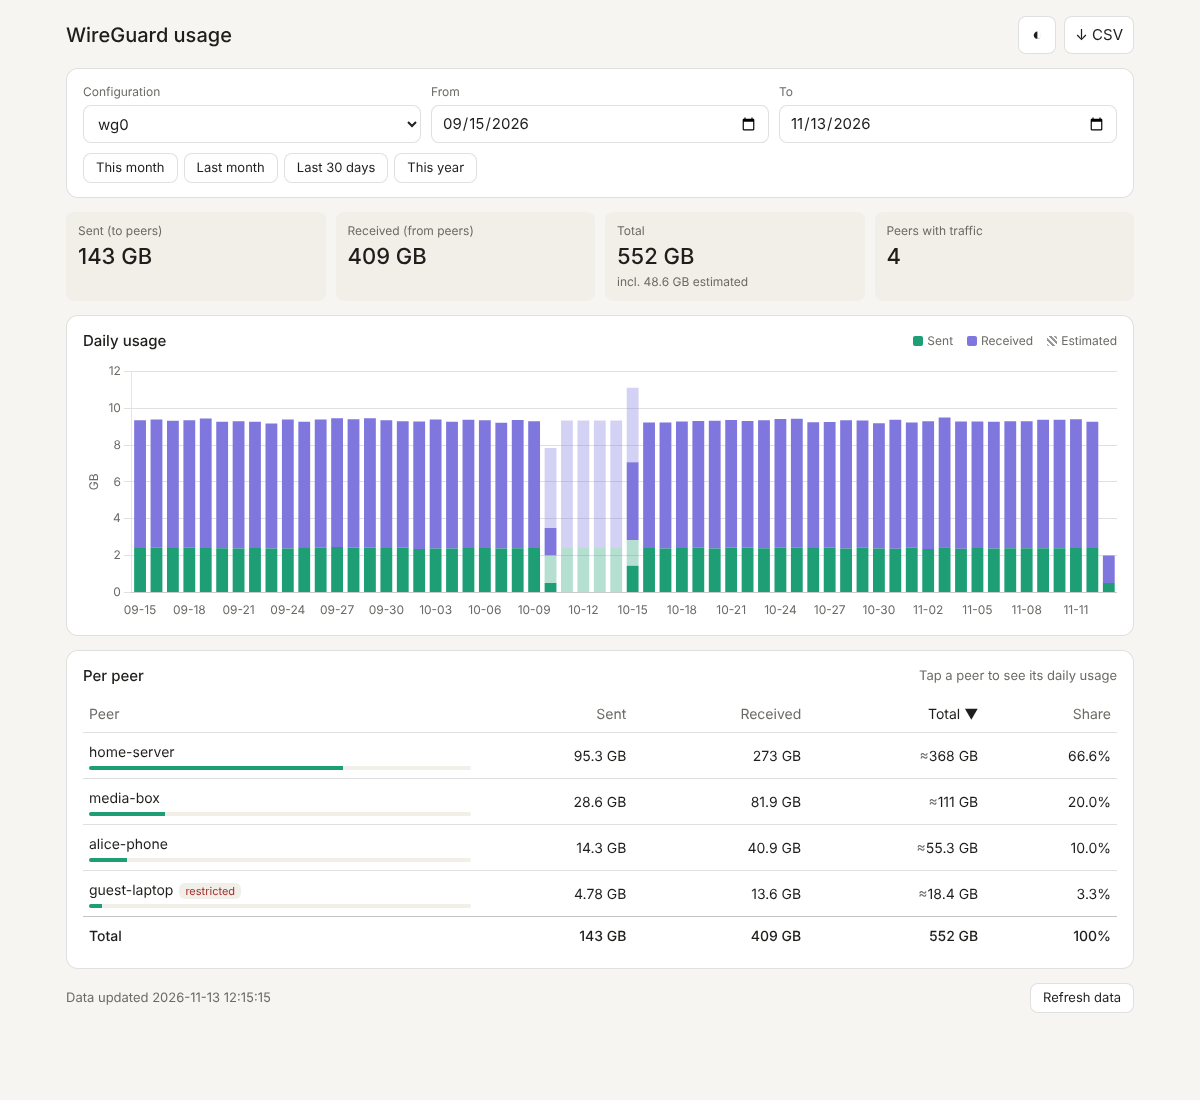
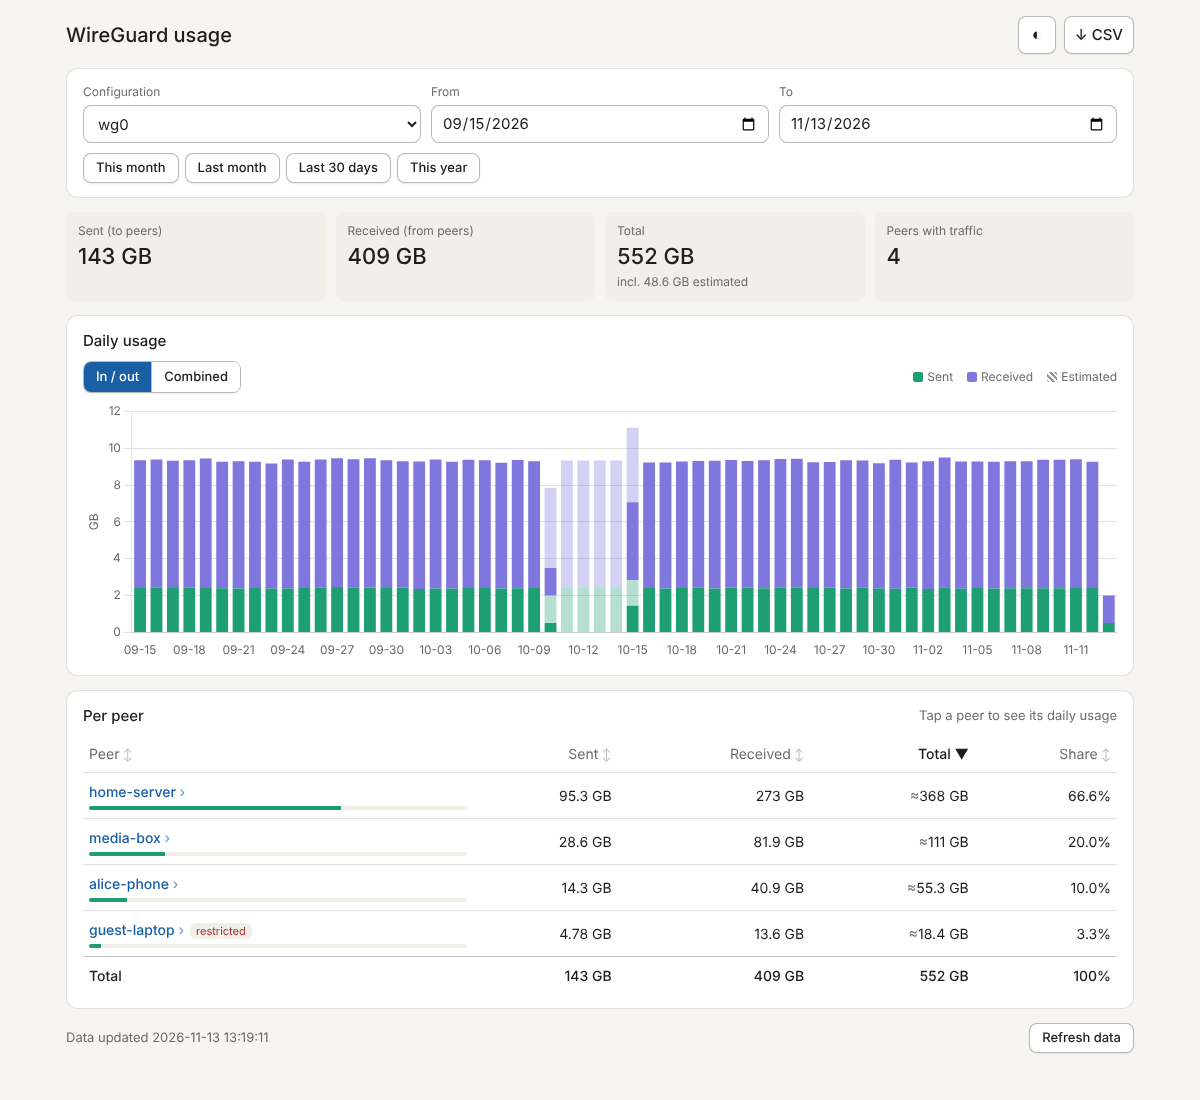
Make buttons, tabs and peer rows look clickable
Solid buttons with a visible border and press feedback, a filled active
tab in the In/out | Combined switch and the date presets, sort arrows on
table headers, and peer names styled as links with a chevron.

Claude-Session: https://claude.ai/code/session_01Jf7VQPKcCADD2hmauksGBQ

diff --git a/app/static/index.html b/app/static/index.html
@@ -9,15 +9,15 @@
 <style>
 :root {
   --bg: #f6f5f1; --card: #ffffff; --soft: #f1efe8; --text: #1f1e1c; --muted: #6b6a65;
-  --border: rgba(0,0,0,.12); --accent: #185FA5; --accent-bg: #E6F1FB; --rx: #7F77DD; --tx: #1D9E75; --all: #378ADD; --danger: #A32D2D;
+  --border: rgba(0,0,0,.12); --btn: #ffffff; --btn-border: rgba(0,0,0,.28); --btn-hover: #ebe9e2; --accent: #185FA5; --accent-bg: #E6F1FB; --rx: #7F77DD; --tx: #1D9E75; --all: #378ADD; --danger: #A32D2D;
   --radius: 8px;
 }
 @media (prefers-color-scheme: dark) {
   :root:not([data-theme="light"]) { --bg: #161615; --card: #1f1f1d; --soft: #2a2a27; --text: #ecebe6; --muted: #a3a29b;
-    --border: rgba(255,255,255,.14); --accent: #85B7EB; --accent-bg: #0C447C; --danger: #F09595; color-scheme: dark; }
+    --border: rgba(255,255,255,.14); --btn: #2c2c29; --btn-border: rgba(255,255,255,.30); --btn-hover: #383834; --accent: #85B7EB; --accent-bg: #0C447C; --danger: #F09595; color-scheme: dark; }
 }
 :root[data-theme="dark"] { --bg: #161615; --card: #1f1f1d; --soft: #2a2a27; --text: #ecebe6; --muted: #a3a29b;
-    --border: rgba(255,255,255,.14); --accent: #85B7EB; --accent-bg: #0C447C; --danger: #F09595; color-scheme: dark; }
+    --border: rgba(255,255,255,.14); --btn: #2c2c29; --btn-border: rgba(255,255,255,.30); --btn-hover: #383834; --accent: #85B7EB; --accent-bg: #0C447C; --danger: #F09595; color-scheme: dark; }
 * { box-sizing: border-box; }
 body { margin: 0; background: var(--bg); color: var(--text); font: 15px/1.5 system-ui, -apple-system, "Segoe UI", Roboto, sans-serif; }
 main { max-width: 1100px; margin: 0 auto; padding: 16px; }
@@ -29,11 +29,16 @@ label { display: block; font-size: 12px; color: var(--muted); margin-bottom: 4px
 select, input[type=date], button, .btn {
   width: 100%; height: 38px; padding: 0 10px; font: inherit; color: var(--text); background: var(--card);
   border: .5px solid var(--border); border-radius: var(--radius); }
-button, .btn { cursor: pointer; display: inline-flex; align-items: center; justify-content: center; gap: 6px; text-decoration: none; width: auto; }
-button:hover, .btn:hover { background: var(--soft); }
+button, .btn { cursor: pointer; display: inline-flex; align-items: center; justify-content: center; gap: 6px; text-decoration: none; width: auto;
+  background: var(--btn); border: 1px solid var(--btn-border); font-weight: 500; box-shadow: 0 1px 2px rgba(0,0,0,.08);
+  transition: background .12s, transform .06s; }
+button:hover, .btn:hover { background: var(--btn-hover); }
+button:active, .btn:active { transform: scale(.97); }
+button:focus-visible, .btn:focus-visible, select:focus-visible, input:focus-visible { outline: 2px solid var(--accent); outline-offset: 1px; }
+select, input[type=date] { border: 1px solid var(--btn-border); cursor: pointer; }
 .presets { display: flex; flex-wrap: wrap; gap: 6px; margin-top: 10px; }
 .chip { height: 30px; padding: 0 12px; font-size: 13px; border-radius: var(--radius); }
-.chip.on { background: var(--accent-bg); color: var(--accent); border-color: transparent; }
+.chip.on { background: var(--accent-bg); color: var(--accent); border-color: var(--accent); box-shadow: none; }
 .stats { display: grid; grid-template-columns: repeat(4, 1fr); gap: 10px; margin-bottom: 14px; }
 .stat { background: var(--soft); border-radius: var(--radius); padding: 10px 12px; }
 .stat .k { font-size: 12px; color: var(--muted); }
@@ -46,8 +51,11 @@ table { width: 100%; border-collapse: collapse; font-size: 14px; }
 th, td { padding: 8px 6px; border-bottom: .5px solid var(--border); text-align: right; white-space: nowrap; }
 th:first-child, td:first-child { text-align: left; white-space: normal; }
 th { font-weight: 400; color: var(--muted); cursor: pointer; user-select: none; }
-th.sorted { color: var(--text); }
+th:not(.sorted)::after { content: " ↕"; opacity: .45; font-size: 12px; }
+th.sorted { color: var(--text); font-weight: 500; }
 tbody tr { cursor: pointer; }
+.pname { color: var(--accent); font-weight: 500; }
+.pname::after { content: " ›"; opacity: .6; }
 tbody tr:hover, tbody tr.sel { background: var(--soft); }
 tfoot td { font-weight: 500; border-bottom: none; }
 .badge { font-size: 11px; padding: 1px 6px; border-radius: 6px; margin-left: 6px; background: var(--soft); color: var(--muted); }
@@ -61,9 +69,10 @@ footer { display: flex; justify-content: space-between; align-items: center; gap
 .legend i { display: inline-block; width: 10px; height: 10px; border-radius: 2px; margin-right: 4px; vertical-align: -1px; }
 .legend i.est { background: repeating-linear-gradient(45deg, var(--muted) 0 2px, transparent 2px 4px); opacity: .7; }
 .stat .n { font-size: 12px; color: var(--muted); }
-.seg { display: inline-flex; border: .5px solid var(--border); border-radius: var(--radius); overflow: hidden; }
-.seg button { border: 0; border-radius: 0; height: 28px; padding: 0 10px; font-size: 13px; width: auto; }
-.seg button.on { background: var(--accent-bg); color: var(--accent); }
+.seg { display: inline-flex; border: 1px solid var(--btn-border); border-radius: var(--radius); overflow: hidden; box-shadow: 0 1px 2px rgba(0,0,0,.08); }
+.seg button { border: 0; border-radius: 0; box-shadow: none; height: 30px; padding: 0 12px; font-size: 13px; width: auto; }
+.seg button + button { border-left: 1px solid var(--btn-border); }
+.seg button.on { background: var(--accent); color: var(--card); }
 .chart-head { display: flex; align-items: center; justify-content: space-between; gap: 8px; flex-wrap: wrap; margin-bottom: 8px; }
 .approx { color: var(--muted); cursor: help; }
 @media (max-width: 720px) {
@@ -224,7 +233,7 @@ function render() {
   rows.sort((a, b) => (k === "name" ? a.name.localeCompare(b.name) : a[k] - b[k]) * dir);
   $("rows").innerHTML = rows.map(p => `
     <tr data-id="${p.id}" class="${p.id === state.peer ? "sel" : ""}">
-      <td>${esc(p.name)}${p.status !== "active" ? `<span class="badge ${p.status}">${p.status}</span>` : ""}
+      <td><span class="pname">${esc(p.name)}</span>${p.status !== "active" ? `<span class="badge ${p.status}">${p.status}</span>` : ""}
         <div class="bar"><span style="width:${(p.share * 100).toFixed(1)}%"></span></div></td>
       <td>${fmt(p.tx)}</td><td>${fmt(p.rx)}</td><td>${(p.est_rx + p.est_tx) > 0.05 * p.total ? `<span class="approx" title="${fmt(p.est_rx + p.est_tx)} estimated (no snapshots)">≈</span>` : ""}${fmt(p.total)}</td>
       <td class="hide-sm">${(p.share * 100).toFixed(1)}%</td>
